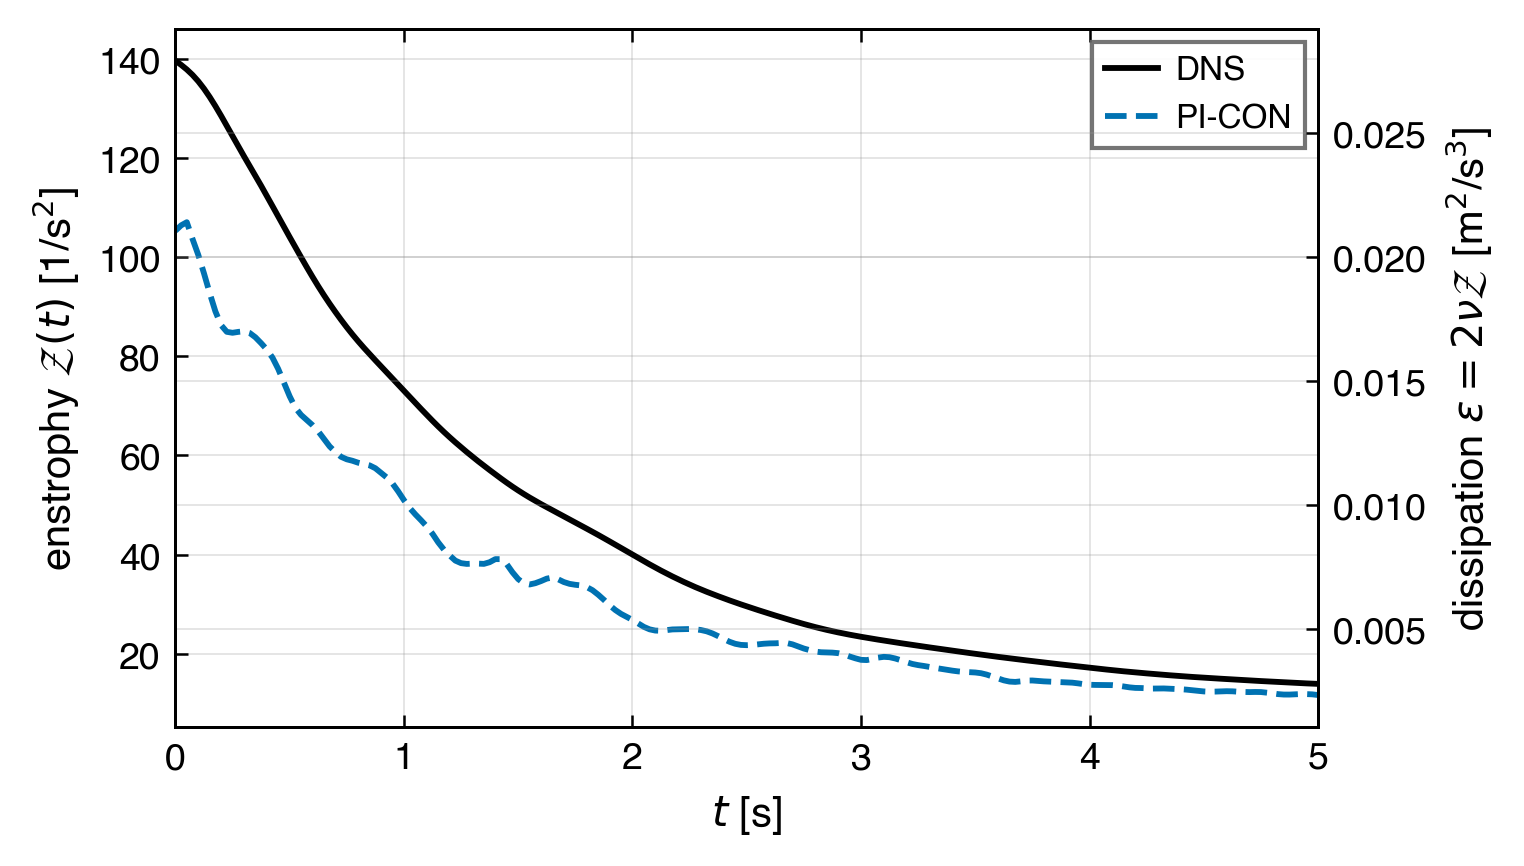
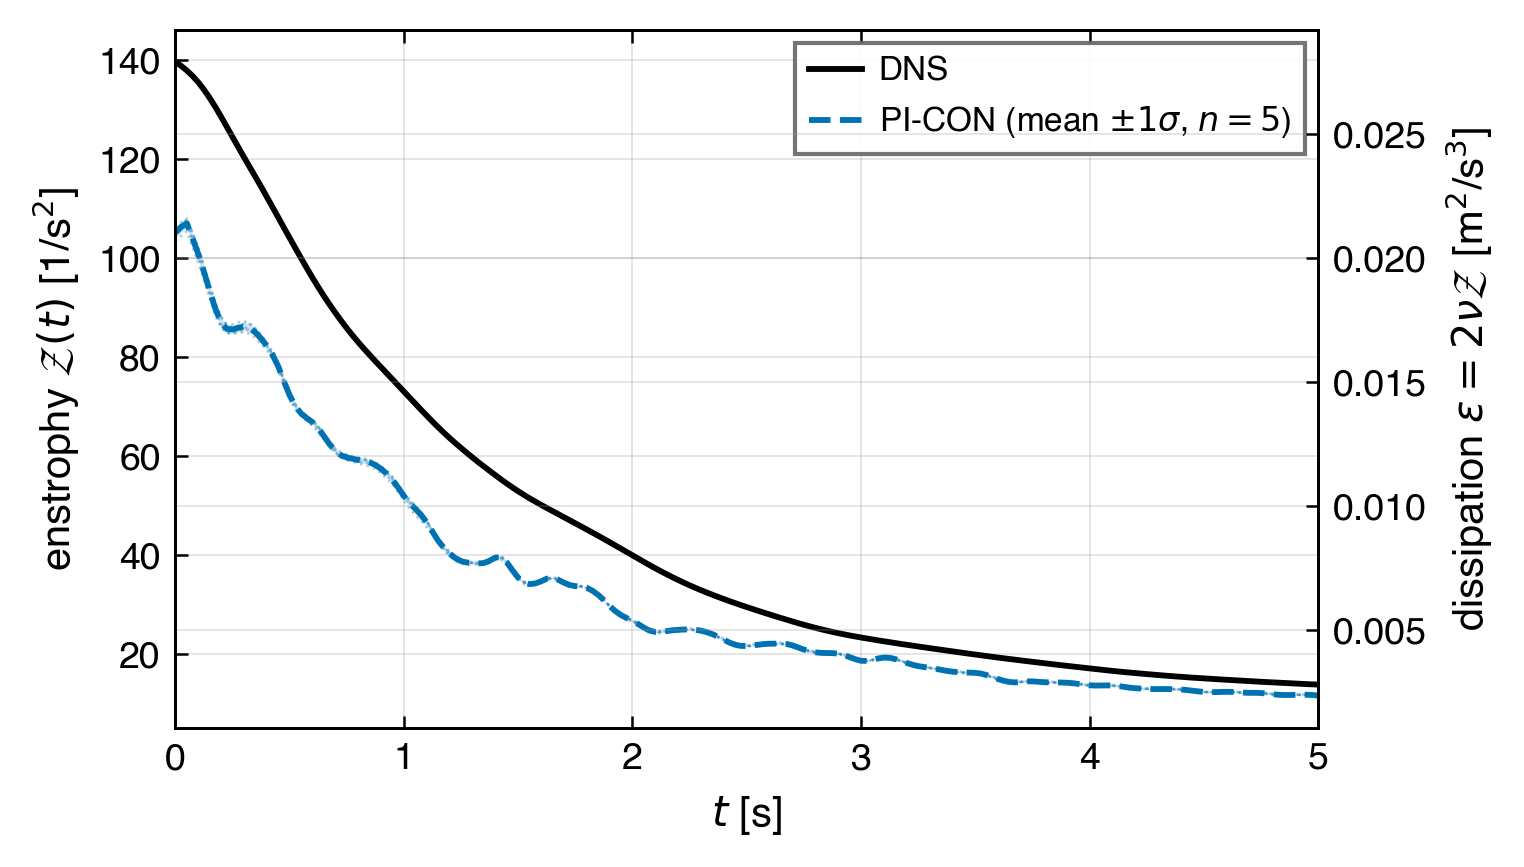
fix(thesis): redraw the enstrophy figure from five seeds, not one
Same shape as the band-energy figure fixed in 9a31047: a scalar time series
drawn from one hard-coded seed while the surrounding results are n=5. Averaging
is well-defined here (unlike the field visualisations, which stay at seed 42),
and a single realisation cannot separate a systematic deficit from a lucky run.

Read the EXP-245 n=5 group, draw mean +- 1 sigma with individual seeds dotted,
and assert exactly five dirs -- the _mac -> _final rename already caused one
silent read of superseded data. The DNS reference is bit-identical across seeds,
so it stays a single line; the script now asserts that too rather than assuming.

The deficit is computed per seed and then aggregated, not read off an averaged
curve: 26.0 +- 0.2 % on t >= 1 s (per-seed 26.4/26.2/25.8/26.0/25.8). The prose
quoted 26.4 %, which was seed 42 alone. The spread turns out to be tiny, so the
envelope is nearly invisible -- that is the finding, not a defect: the enstrophy
deficit is reproducible to 0.2 percentage points and is a property of the K=100
bandwidth limit rather than of any one run.

diff --git a/scripts/plot_dissipation_budget.py b/scripts/plot_dissipation_budget.py
@@ -5,7 +5,16 @@ What: 用既有 eval series.npz 的 enstrophy(t) 對照重建場 vs DNS，並換
 Why : K=100 sensor Nyquist 截斷 → 重建場缺中高頻渦量 → enstrophy/dissipation 系統性低估。
       這是 sensor-information ceiling 的物理後果，誠實量化反而強化「中高頻 bounded 非架構失敗」，
       並界定 out-of-scope（TKE/dissipation budget 任務需更多 sensor）。
-資料: artifacts/eval_245_seed42_export/series.npz（B3 LES-T50 seed42, 與 Table 4.7 KE 5.90% 同 run）。
+資料: EXP-245 multi-seed group (n=5)，見 SEED_GLOB。
+
+Why multi-seed (2026-07-17)
+===========================
+原本硬編 `artifacts/eval_245_seed42_export/series.npz` 單一 seed。本圖與 band-energy 圖
+同為純量時間序列（非場的視覺化），與主表、fig:main_trajectories 一樣可跨 seed 平均；
+單 seed 版無法分辨「系統性 deficit」與「單次實現的巧合」。改為 n=5 mean ± 1σ。
+（欄位視覺化類的圖仍維持 seed 42，那類圖無法平均。）
+
+DNS 參考線跨 seed 位元相同（DNS 為固定 ground truth），故只畫一條，不做包絡。
 """
 import pathlib
 import sys
@@ -18,31 +27,66 @@ sys.path.insert(0, str(ROOT / "src"))
 from pi_con.plot_style import apply_journal_rcparams, DNS as DNS_C, PICON as PRED_C  # noqa: E402
 
 NU = 1e-4  # Re = 10000 → ν = 1/Re
-SERIES = ROOT / "artifacts/eval_245_seed42_export/series.npz"
+# 用 glob 但**斷言數量**：2026-07-17 這批 eval 目錄曾由 `_mac` 改名為 `_final`，
+# 硬編路徑會安靜地讀到被取代的舊資料（`_mac` 評自 ScheduleFree train-mode
+# checkpoint，與主表差 0.05 pp）。寧可大聲失敗。
+SEED_GLOB = "artifacts/exp245_seeds/eval_245_seed?_final"
+N_SEEDS_EXPECTED = 5
 OUTDIR = ROOT / "thesis/figures/results"
 OUTDIR.mkdir(parents=True, exist_ok=True)
 
 # DNS_C / PRED_C imported from pi_con.plot_style (Okabe--Ito semantic palette)
 
 
-def main() -> None:
-    d = np.load(SERIES)
-    t = d["time"]
-    Z_pred, Z_dns = d["enstrophy"], d["enstrophy_dns"]
-    eps_pred, eps_dns = 2 * NU * Z_pred, 2 * NU * Z_dns
+def load_seeds() -> tuple[np.ndarray, np.ndarray, np.ndarray]:
+    """Return (time, Z_pred stacked (n_seeds, n_time), Z_dns)."""
+    dirs = sorted(ROOT.glob(SEED_GLOB))
+    if len(dirs) != N_SEEDS_EXPECTED:
+        raise SystemExit(
+            f"[abort] expected {N_SEEDS_EXPECTED} seed dirs matching {SEED_GLOB}, "
+            f"found {len(dirs)}: {[d.name for d in dirs]}\n"
+            f"        本圖標示為 n=5；seed 數不符時不畫，以免圖與 caption 不一致。"
+        )
+    series = [np.load(d / "series.npz") for d in dirs]
+    t = series[0]["time"]
+    Z_dns = series[0]["enstrophy_dns"]
+    for d, s in zip(dirs, series):
+        if not np.allclose(s["time"], t):
+            raise SystemExit(f"[abort] time grid of {d.name} differs from {dirs[0].name}")
+        if not np.allclose(s["enstrophy_dns"], Z_dns):
+            raise SystemExit(
+                f"[abort] DNS enstrophy of {d.name} differs from {dirs[0].name}; "
+                f"the DNS reference must be identical across seeds."
+            )
+    print(f"[#5] {len(dirs)} seeds: {', '.join(d.name for d in dirs)}")
+    return t, np.stack([s["enstrophy"] for s in series]), Z_dns
 
-    # 後 spin-up 窗 t>=1 的 time-mean deficit（與 thesis「t>=1 KE~5%」一致的穩態窗）
+
+def main() -> None:
+    t, Z_pred_stack, Z_dns = load_seeds()
+
+    # 後 spin-up 窗 t>=1 的 time-mean deficit（與 thesis「t>=1 KE~5%」一致的穩態窗）。
+    # 逐 seed 算 deficit 再取 mean±std —— 不是先平均曲線再算一個 deficit。
     m = t >= 1.0
-    z_deficit = (1.0 - Z_pred[m].mean() / Z_dns[m].mean()) * 100.0
-    z_deficit_all = (1.0 - Z_pred.mean() / Z_dns.mean()) * 100.0
+    per_seed = np.array([(1.0 - zp[m].mean() / Z_dns[m].mean()) * 100.0
+                         for zp in Z_pred_stack])
+    z_deficit, z_deficit_sd = per_seed.mean(), per_seed.std(ddof=1)
+
+    Z_mean = Z_pred_stack.mean(axis=0)
+    Z_std = Z_pred_stack.std(axis=0, ddof=1)
 
     apply_journal_rcparams()
     # 單 panel：enstrophy Z(t)（左軸）；dissipation ε=2νZ 僅為常數倍率，
     # 用右側 twin 軸提供換算刻度，不重畫同形曲線（避免左右兩 panel 冗餘）。
     fig, ax1 = plt.subplots(figsize=(5.2, 3.0))
 
-    ax1.plot(t, Z_dns, color=DNS_C, lw=1.4, label="DNS")
-    ax1.plot(t, Z_pred, color=PRED_C, ls="--", lw=1.4, label="PI-CON")
+    ax1.plot(t, Z_dns, color=DNS_C, lw=1.4, label="DNS", zorder=5)
+    for zp in Z_pred_stack:
+        ax1.plot(t, zp, color=PRED_C, ls=":", lw=0.6, alpha=0.35, zorder=2)
+    ax1.fill_between(t, Z_mean - Z_std, Z_mean + Z_std, color=PRED_C, alpha=0.18,
+                     linewidth=0, zorder=3)
+    ax1.plot(t, Z_mean, color=PRED_C, ls="--", lw=1.4,
+             label=r"PI-CON (mean $\pm 1\sigma$, $n=5$)", zorder=4)
     ax1.set_xlabel(r"$t$ [s]")
     ax1.set_ylabel(r"enstrophy $\mathcal{Z}(t)$ [1/s$^2$]")
     ax1.set_xlim(0, 5)
@@ -60,9 +104,12 @@ def main() -> None:
     plt.close(fig)
 
     print(f"[#5] wrote {OUTDIR/'dissipation_budget.pdf'} (+png)")
-    print(f"[#5] enstrophy deficit (t>=1 mean): {z_deficit:.1f}%   (full window: {z_deficit_all:.1f}%)")
-    print(f"[#5] Z_dns(t>=1) mean={Z_dns[m].mean():.2f}, Z_pred mean={Z_pred[m].mean():.2f} [1/s^2]")
-    print(f"[#5] eps_dns(t>=1) mean={eps_dns[m].mean():.4e}, eps_pred mean={eps_pred[m].mean():.4e} [m^2/s^3]")
+    print(f"[#5] enstrophy deficit (t>=1): {z_deficit:.1f} +- {z_deficit_sd:.1f} %  "
+          f"per-seed {np.array2string(per_seed, precision=1)}")
+    print(f"[#5] Z_dns(t>=1) mean={Z_dns[m].mean():.2f}, "
+          f"Z_pred(t>=1) mean={Z_mean[m].mean():.2f} [1/s^2]")
+    print(f"[#5] eps_dns(t>=1) mean={2*NU*Z_dns[m].mean():.4e}, "
+          f"eps_pred mean={2*NU*Z_mean[m].mean():.4e} [m^2/s^3]")
 
 
 if __name__ == "__main__":

diff --git a/thesis/contents/chapter04.tex b/thesis/contents/chapter04.tex
@@ -176,12 +176,12 @@ The high-$k$ deviation is the expected signature of a sensor-limited reconstruct
 \end{figure}
 
 \paragraph{Enstrophy and dissipation under the spectral cutoff.}
-The band-limited reconstruction carries a direct consequence for vorticity-derived statistics. Figure~\ref{fig:dissipation_budget} compares the enstrophy $\mathcal{Z}(t)$ against DNS, with the dissipation rate $\varepsilon=2\nu\mathcal{Z}$ on the right axis as a constant rescaling. The reconstruction lies below the DNS reference by $26.4\%$ on the post-spin-up window $t\ge 1$~s, because the mid/high-wavenumber content beyond the $K=100$ Nyquist scale carries enstrophy weighted by $k^2$. The deficit follows the spectral roll-off at $k\ge 16$ (Fig.~\ref{fig:spectrum}) and the $\omega$ relative error of Table~\ref{tab:main_metrics}: kinetic energy, concentrated at low wavenumbers, is recovered, while enstrophy-level statistics remain sensor-bounded.
+The band-limited reconstruction carries a direct consequence for vorticity-derived statistics. Figure~\ref{fig:dissipation_budget} compares the enstrophy $\mathcal{Z}(t)$ against DNS, with the dissipation rate $\varepsilon=2\nu\mathcal{Z}$ on the right axis as a constant rescaling. The reconstruction lies below the DNS reference by $26.0 \pm 0.2\%$ ($n=5$ seeds) on the post-spin-up window $t\ge 1$~s, because the mid/high-wavenumber content beyond the $K=100$ Nyquist scale carries enstrophy weighted by $k^2$. The deficit follows the spectral roll-off at $k\ge 16$ (Fig.~\ref{fig:spectrum}) and the $\omega$ relative error of Table~\ref{tab:main_metrics}: kinetic energy, concentrated at low wavenumbers, is recovered, while enstrophy-level statistics remain sensor-bounded.
 
 \begin{figure}[!htbp]
     \centering
     \includegraphics[width=\linewidth]{figures/results/dissipation_budget.pdf}
-    \caption{Enstrophy $\mathcal{Z}(t)$ (left axis, 1/s$^2$) versus time $t$ (s), seed 42, LES-derived placement; the right axis shows the dissipation rate $\varepsilon=2\nu\mathcal{Z}$ (m$^2$/s$^3$), a constant rescaling of the left axis. Solid: DNS; dashed: PI-CON.}
+    \caption{Enstrophy $\mathcal{Z}(t)$ (left axis, 1/s$^2$) versus time $t$ (s), LES-derived placement; the right axis shows the dissipation rate $\varepsilon=2\nu\mathcal{Z}$ (m$^2$/s$^3$), a constant rescaling of the left axis. Solid: DNS reference (identical across seeds). Dashed: PI-CON mean over $n=5$ seeds, with the $\pm 1\sigma$ band shaded and individual seeds dotted.}
     \label{fig:dissipation_budget}
 \end{figure}
 
